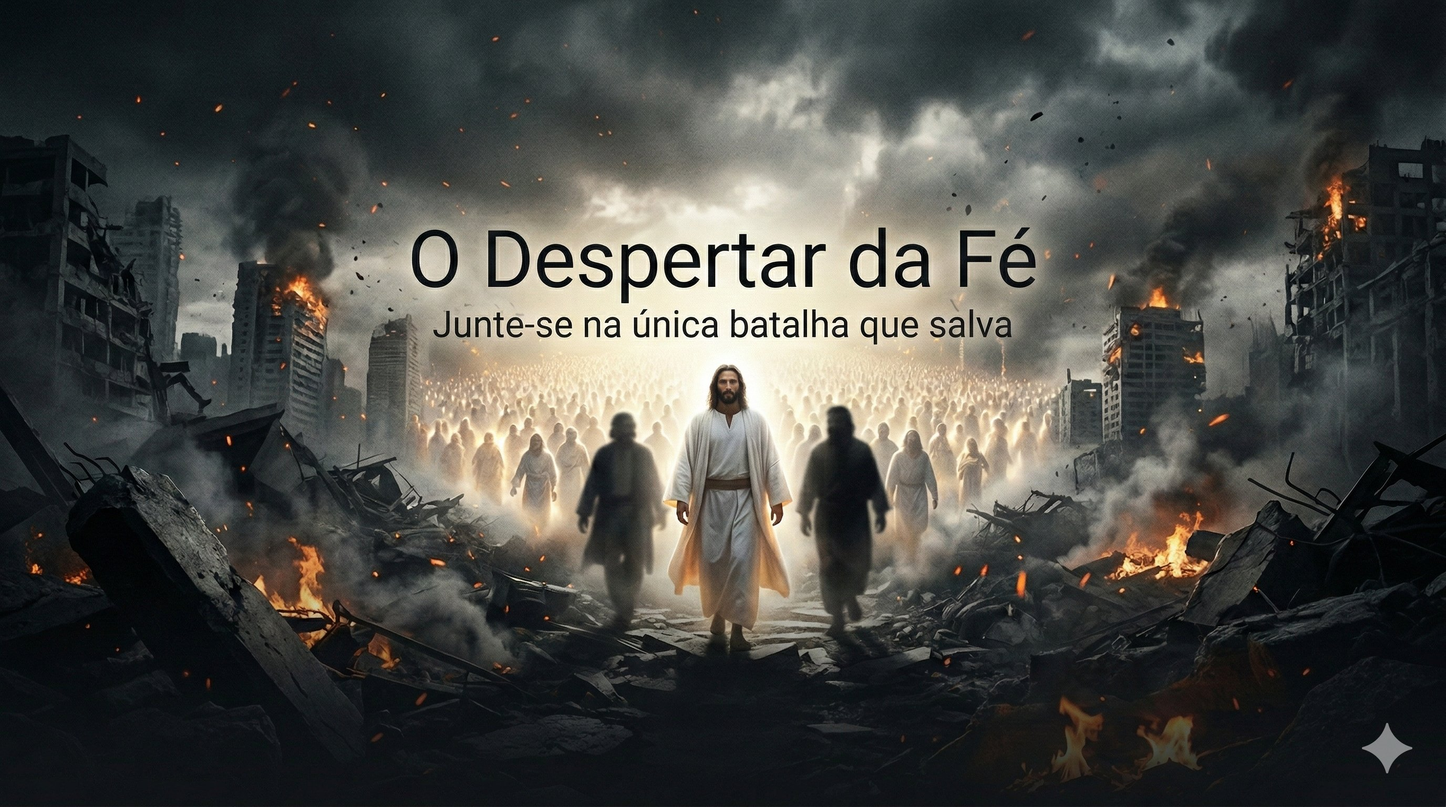
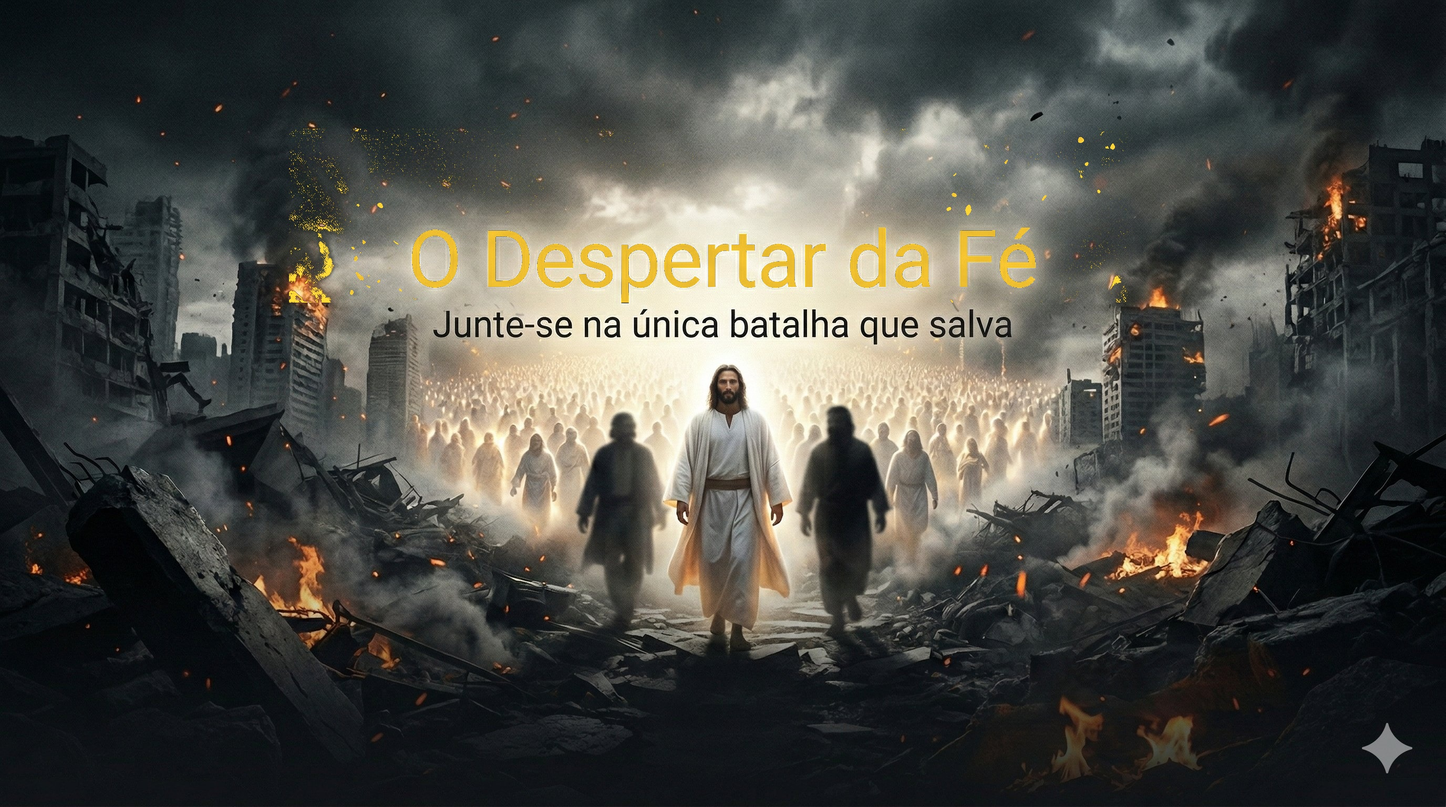
gold text recoloring in hero JPEG + remove CSS overlays

Changed region(s): [[0.2812, 0.2812, 0.7188, 0.375], [0.1875, 0.2188, 0.25, 0.375], [0.75, 0.3438, 0.7812, 0.375]]

diff --git a/app/dark/page.tsx b/app/dark/page.tsx
@@ -48,9 +48,7 @@ export default function DarkLandingPage() {
               priority
             />
             <div className="absolute inset-0 bg-gradient-to-t from-dark-800 via-dark-800/40 to-transparent" />
-            {/* Solid dark band at top to fully cover baked-in black text in JPEG */}
-            <div className="absolute inset-x-0 top-0 bg-dark-800" style={{ height: '22%' }} />
-            <div className="absolute inset-x-0 bg-gradient-to-b from-dark-800 to-transparent" style={{ top: '22%', height: '15%' }} />
+            <div className="absolute inset-0 bg-gradient-to-b from-dark-800/50 via-transparent to-transparent" />
           </div>
           <div className="absolute inset-0 fleur-bg-pattern pointer-events-none" />
           <div className="absolute top-16 left-8 animate-float pointer-events-none">
@@ -59,24 +57,16 @@ export default function DarkLandingPage() {
           <div className="absolute top-24 right-12 animate-float pointer-events-none" style={{ animationDelay: '1.5s' }}>
             <FleurDeLis size={40} opacity={0.16} />
           </div>
-          {/* Official Logo + Title overlay */}
+          {/* Official Logo - top of hero (watermark style) */}
           <div className="relative z-10 pt-8 px-4">
-            <div className="max-w-6xl mx-auto flex justify-start items-center gap-6">
-              <div className="relative w-[140px] h-[140px] flex-shrink-0">
+            <div className="max-w-6xl mx-auto flex justify-start">
+              <div className="relative w-[140px] h-[140px]">
                 <Image
                   src="/images/logo-transparent.png"
                   alt="Despertar da Fé - Logo Oficial"
                   fill
                   className="object-contain drop-shadow-[0_0_20px_rgba(212,160,18,0.4)]"
                 />
-              </div>
-              <div>
-                <h1 className="text-4xl lg:text-5xl font-serif font-bold text-gradient-gold drop-shadow-[0_2px_8px_rgba(0,0,0,0.8)]">
-                  O Despertar da Fé
-                </h1>
-                <p className="text-gold-400 text-lg lg:text-xl font-serif mt-1 drop-shadow-[0_2px_6px_rgba(0,0,0,0.8)]">
-                  Junte-se na única batalha que salva
-                </p>
               </div>
             </div>
           </div>
@@ -125,18 +115,6 @@ export default function DarkLandingPage() {
               priority
             />
             <div className="absolute inset-0 bg-gradient-to-t from-dark-800 via-transparent to-dark-800/30" />
-            {/* Solid dark band at top to cover baked-in black text */}
-            <div className="absolute inset-x-0 top-0 bg-dark-800" style={{ height: '25%' }} />
-            <div className="absolute inset-x-0 bg-gradient-to-b from-dark-800 to-transparent" style={{ top: '25%', height: '15%' }} />
-            {/* Gold title overlay */}
-            <div className="absolute top-3 left-0 right-0 z-10 text-center px-4">
-              <h1 className="text-2xl font-serif font-bold text-gradient-gold drop-shadow-[0_2px_8px_rgba(0,0,0,0.9)]">
-                O Despertar da Fé
-              </h1>
-              <p className="text-gold-400 text-sm font-serif mt-1 drop-shadow-[0_2px_6px_rgba(0,0,0,0.9)]">
-                Junte-se na única batalha que salva
-              </p>
-            </div>
           </div>
           {/* CTA below image */}
           <div className="px-4 py-8 text-center -mt-8 relative z-10">
